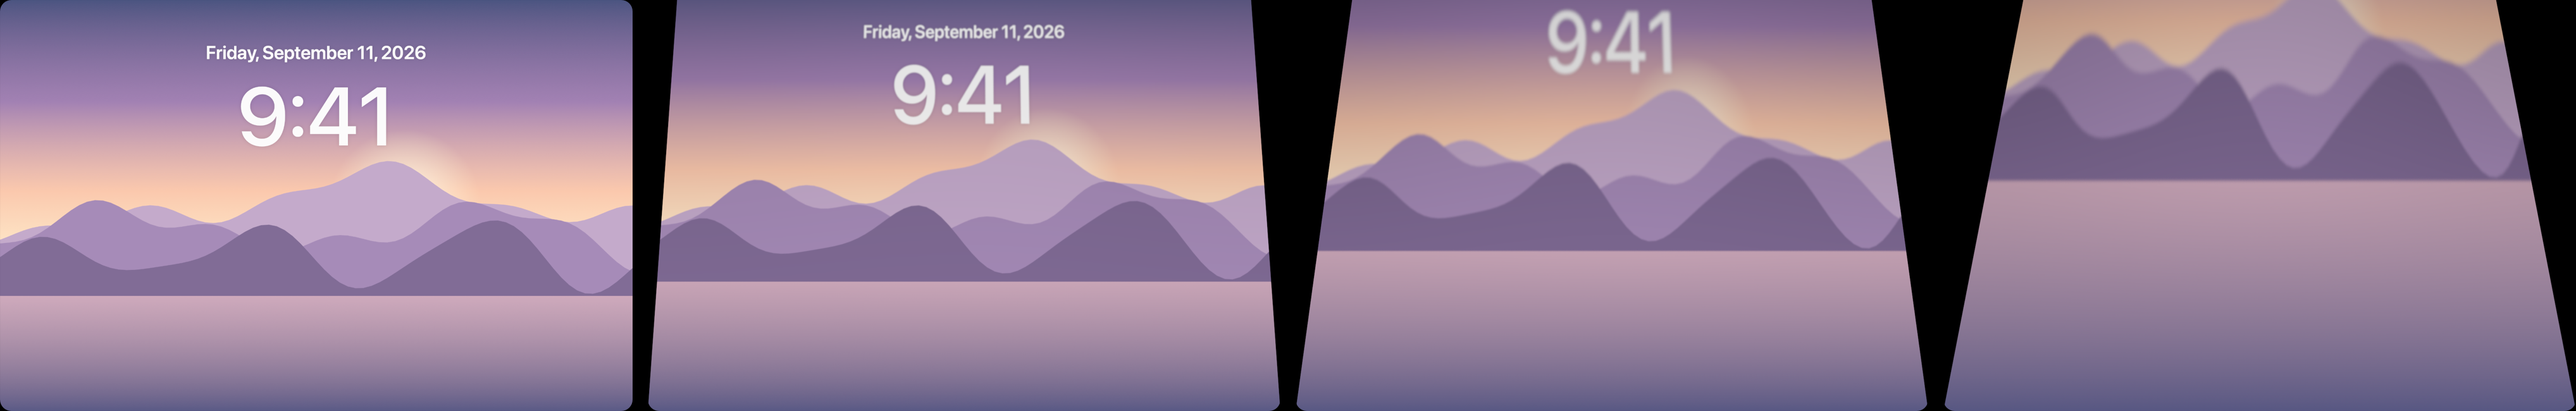
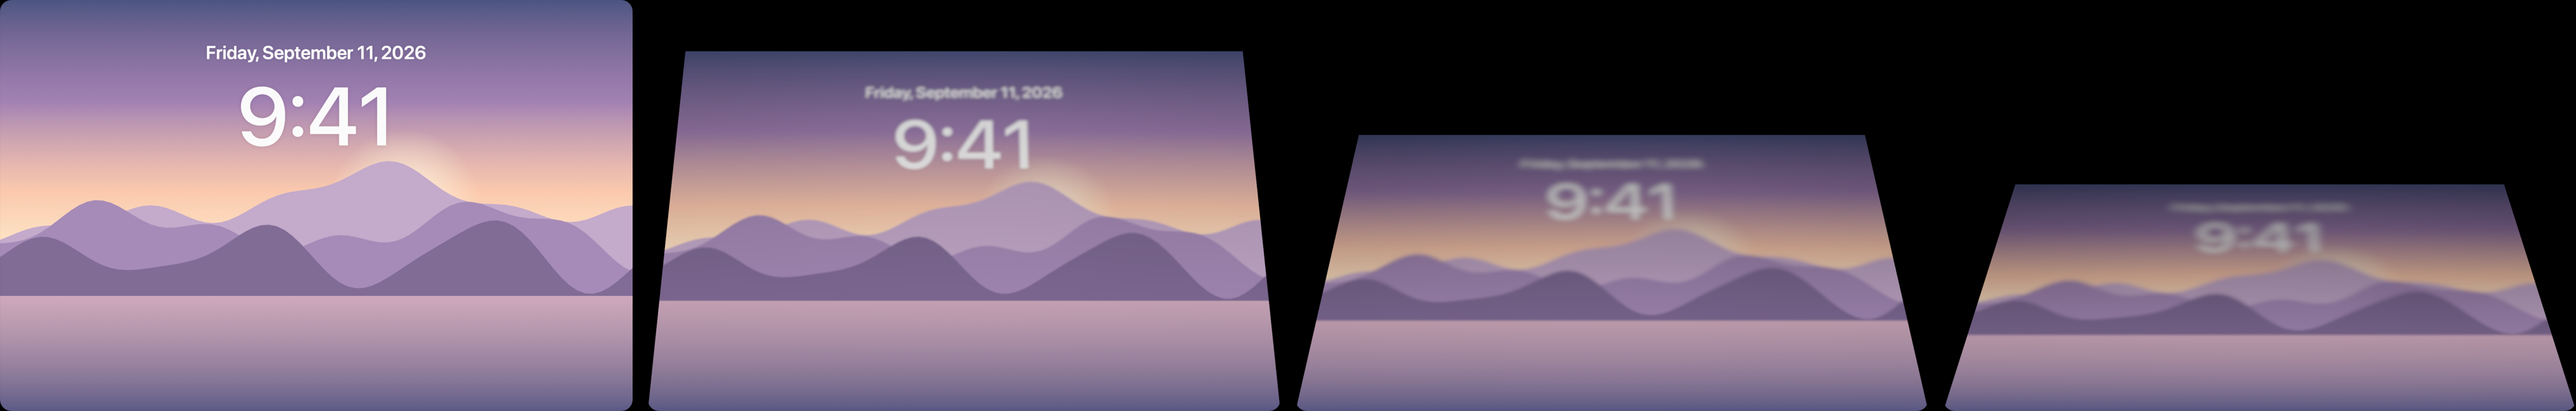
Default to the receding tilt; keep anchored behind a constant

diff --git a/Sources/Lidfold/Preferences.swift b/Sources/Lidfold/Preferences.swift
@@ -8,10 +8,11 @@ enum Effect {
     static let activationAngle = 100.0
     /// At this lid angle the picture has fully dissolved into black.
     static let endAngle = 8.0
+    /// false: the desktop recedes away from the viewer behind the hinge, the
+    /// whole picture staying visible as it tilts back (the default).
     /// true: the desktop stays anchored in space and the glass sweeps over it,
-    /// stretching the picture toward the far edge (the iPhone Duo look).
-    /// false: the desktop recedes away from the viewer behind the hinge.
-    static let anchored = true
+    /// stretching the picture toward the far edge.
+    static let anchored = false
     /// Where the viewer sits, in screen heights: in front of the open screen
     /// and level with a point just above its top edge, as at a desk.
     static let eyeDistance = 2.8

diff --git a/Sources/Lidfold/FoldRenderer.swift b/Sources/Lidfold/FoldRenderer.swift
@@ -27,7 +27,9 @@ enum FoldModel {
         let travel = max(0, a0 - angle)
         let progress = min(max(travel / max(a0 - a1, 1), 0), 1)
         var f = FoldParams()
-        f.tilt = min(travel, 85) * .pi / 180
+        // The receding picture follows a share of the hinge rotation; the
+        // anchored glass follows it exactly.
+        f.tilt = min(travel * (Effect.anchored ? 1.0 : 0.74), 85) * .pi / 180
         f.eyeDistance = Effect.eyeDistance
         f.eyeHeight = Effect.eyeHeight
         f.blurStrength = Effect.blur * pow(progress, 1.35)

diff --git a/README.md b/README.md
@@ -2,9 +2,9 @@
 
 # Lidfold
 
-**The iPhone Duo fold effect, on your MacBook lid.** Close the lid and the desktop stays anchored in space while the glass sweeps over it: the picture stretches toward the far edge, softens, and dissolves into shadow, following the hinge angle in real time.
+**The iPhone Duo fold effect, on your MacBook lid.** Close the lid and the desktop tilts back behind the hinge, softens toward the far edge, and dissolves into shadow, following the hinge angle in real time.
 
-![The effect at lid angles of 110°, 85°, 70° and 55°](docs/effect.png)
+![The effect at lid angles of 110°, 70°, 40° and 25°](docs/effect.png)
 
 I kept seeing the iPhone Duo's fold animation everywhere, and a few paid Mac apps that copy it. I wanted one that was free, open, and did nothing else. Lidfold is a menu bar app with no settings to tune. It reads the lid angle from the sensor Apple already ships in the hinge, captures the built-in display, and redraws it on the GPU as the lid moves. Nothing is recorded or saved.
 
@@ -36,7 +36,7 @@ Now close the lid slowly. The desktop starts to tilt as the lid passes 100° and
 - **Opening the lid** plays the effect in reverse if you reopen before the Mac sleeps. Once it has slept, waking ends the effect so you never come back to a tilted desktop.
 - **A lid left half-closed** ends the effect after 20 seconds, so you can work at any angle.
 - **A nudge while typing won't trigger it.** The lid has to be closing at a deliberate pace when it crosses 100°.
-- **Nothing to tune.** The handful of numbers that define the look are in `Effect` at the top of `Sources/Lidfold/Preferences.swift` if you build from source. Set `anchored` to `false` there for the other common reading of the effect, where the whole desktop recedes away from you instead.
+- **Nothing to tune.** The handful of numbers that define the look are in `Effect` at the top of `Sources/Lidfold/Preferences.swift` if you build from source. Set `anchored` to `true` there for the other reading of the effect, where the desktop stays fixed in space and the glass sweeps over it, stretching the picture.
 
 ## Build from source
 
@@ -57,7 +57,7 @@ cd lidfold
 | `LidAngleSensor.swift` | Reads the hinge angle over IOKit HID (usage page 0x20, usage 0x8A, feature report 7 or 1). No permission needed. |
 | `LidMonitor.swift` | Polls at 50 Hz, smooths with a critically damped spring, and runs the state machine: idle, armed (capture warming up while the lid closes), active (overlay showing). |
 | `ScreenStreamer.swift` | Streams the built-in display through ScreenCaptureKit into IOSurface-backed Metal textures. |
-| `FoldShader.swift`, `FoldRenderer.swift` | One Metal pass. The desktop is held fixed in space while the glass rotates about the hinge toward you; a homography maps each glass pixel to the point your eye's ray hits on that fixed desktop, then a mip-chain disc blur and a shadow gradient follow the distance from the hinge. |
+| `FoldShader.swift`, `FoldRenderer.swift` | One Metal pass. The desktop rotates back about the hinge and is projected onto the screen with perspective; a homography maps each pixel onto it, then a mip-chain disc blur and a shadow gradient follow the distance from the hinge. |
 | `OverlayWindow.swift` | Click-through window over the built-in display, excluded from every screen capture so it never feeds back into its own picture. |
 
 Events are appended to `~/Library/Logs/Lidfold.log`.
